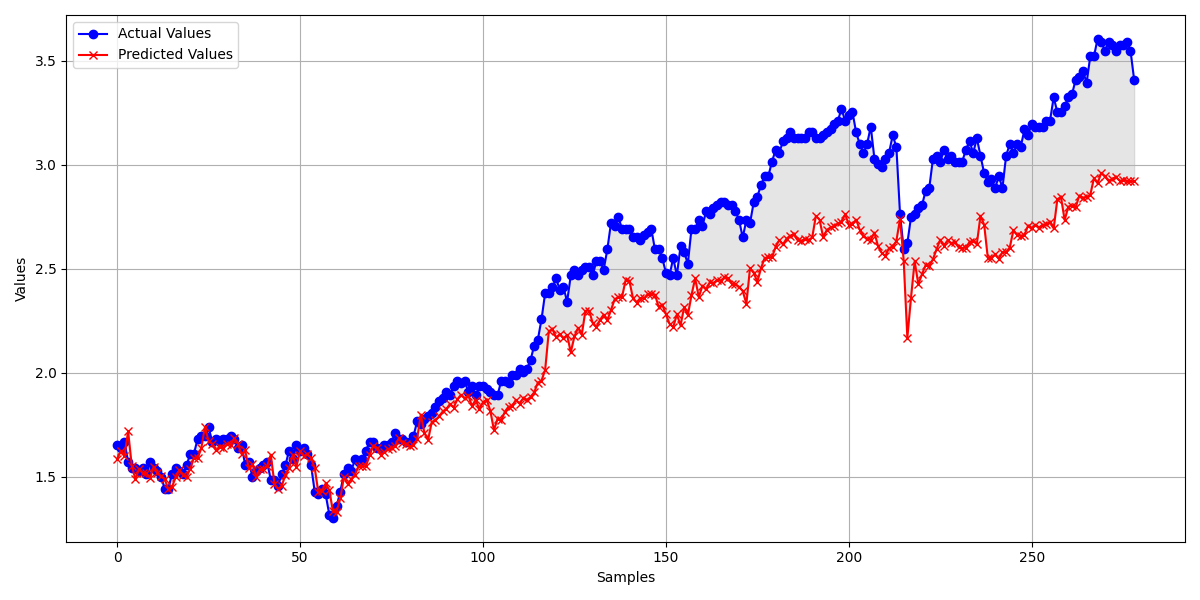
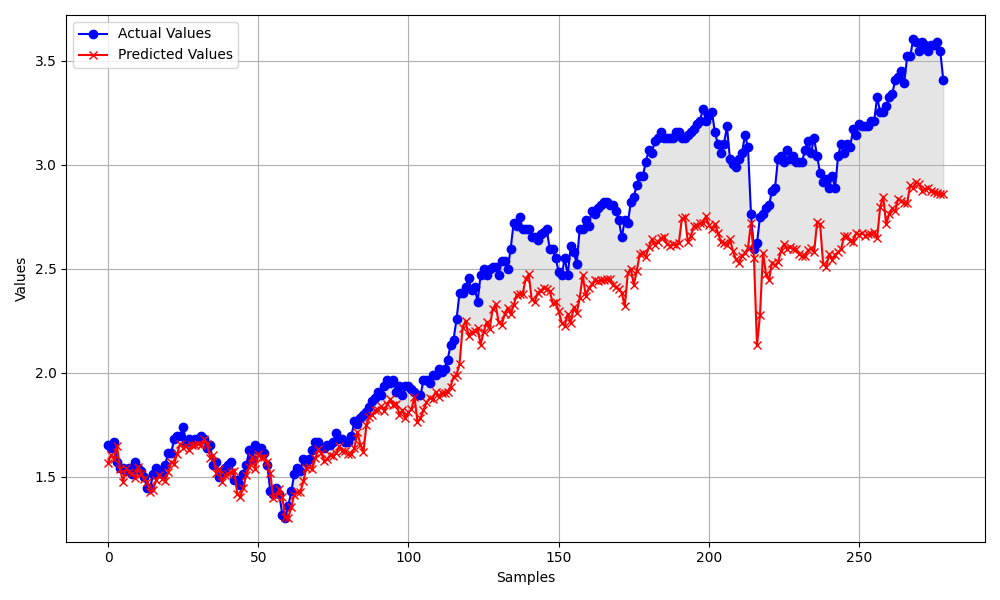
ff alle grafieken dezelfde stijl gemaakt

diff --git a/Program/src/models/support_vector_machine.py b/Program/src/models/support_vector_machine.py
@@ -30,13 +30,16 @@ def support_vector_machine(X_train, y_train, X_test, y_test):
 
 
 def plot_predictions(test_true, test_pred):
-    plt.figure(figsize=(14, 6))
+    plt.figure(figsize=(10, 6))
 
-    plt.scatter(range(len(test_true)), test_true, color="blue", label="Real values", s=5)
-    plt.scatter(range(len(test_pred)), test_pred, color="orange", label="Predictions", s=5)
+    plt.plot(test_true, label="Actual Values", color='b', marker='o')
+    plt.plot(test_pred, label="Predicted Values", color='r', marker='x')
+    plt.fill_between(range(len(test_true)), test_true, test_pred, color='gray', alpha=0.2)
     plt.xlabel("Index")
     plt.ylabel("Value")
     plt.legend()
+    
+    plt.grid(True)
 
     plt.tight_layout()
     plt.show()

diff --git a/Program/src/models/long_short_term_memory.py b/Program/src/models/long_short_term_memory.py
@@ -33,7 +33,7 @@ def train_model(num_epochs, model, train_loader, criterion, optimizer):
             print(f'Epoch [{epoch + 1}/{num_epochs}], Loss: {avg_loss:.4f}')
 
 def plot_predictions(y_test, y_pred):
-    plt.figure(figsize=(12, 6))
+    plt.figure(figsize=(10, 6))
     plt.plot(y_test, label="Actual Values", color='b', marker='o')
     plt.plot(y_pred, label="Predicted Values", color='r', marker='x')
     plt.fill_between(range(len(y_test)), y_test, y_pred, color='gray', alpha=0.2)

diff --git a/Program/src/models/recurrent_neural_network.py b/Program/src/models/recurrent_neural_network.py
@@ -35,7 +35,7 @@ def train_model(num_epochs, model, train_loader, criterion, optimizer):
             print(f'Epoch [{epoch + 1}/{num_epochs}], Loss: {avg_loss:.4f}')
 
 def plot_predictions(y_test, y_pred):
-    plt.figure(figsize=(12, 6))
+    plt.figure(figsize=(10, 6))
     plt.plot(y_test, label="Actual Values", color='b', marker='o')
     plt.plot(y_pred, label="Predicted Values", color='r', marker='x')
     plt.fill_between(range(len(y_test)), y_test, y_pred, color='gray', alpha=0.2)
